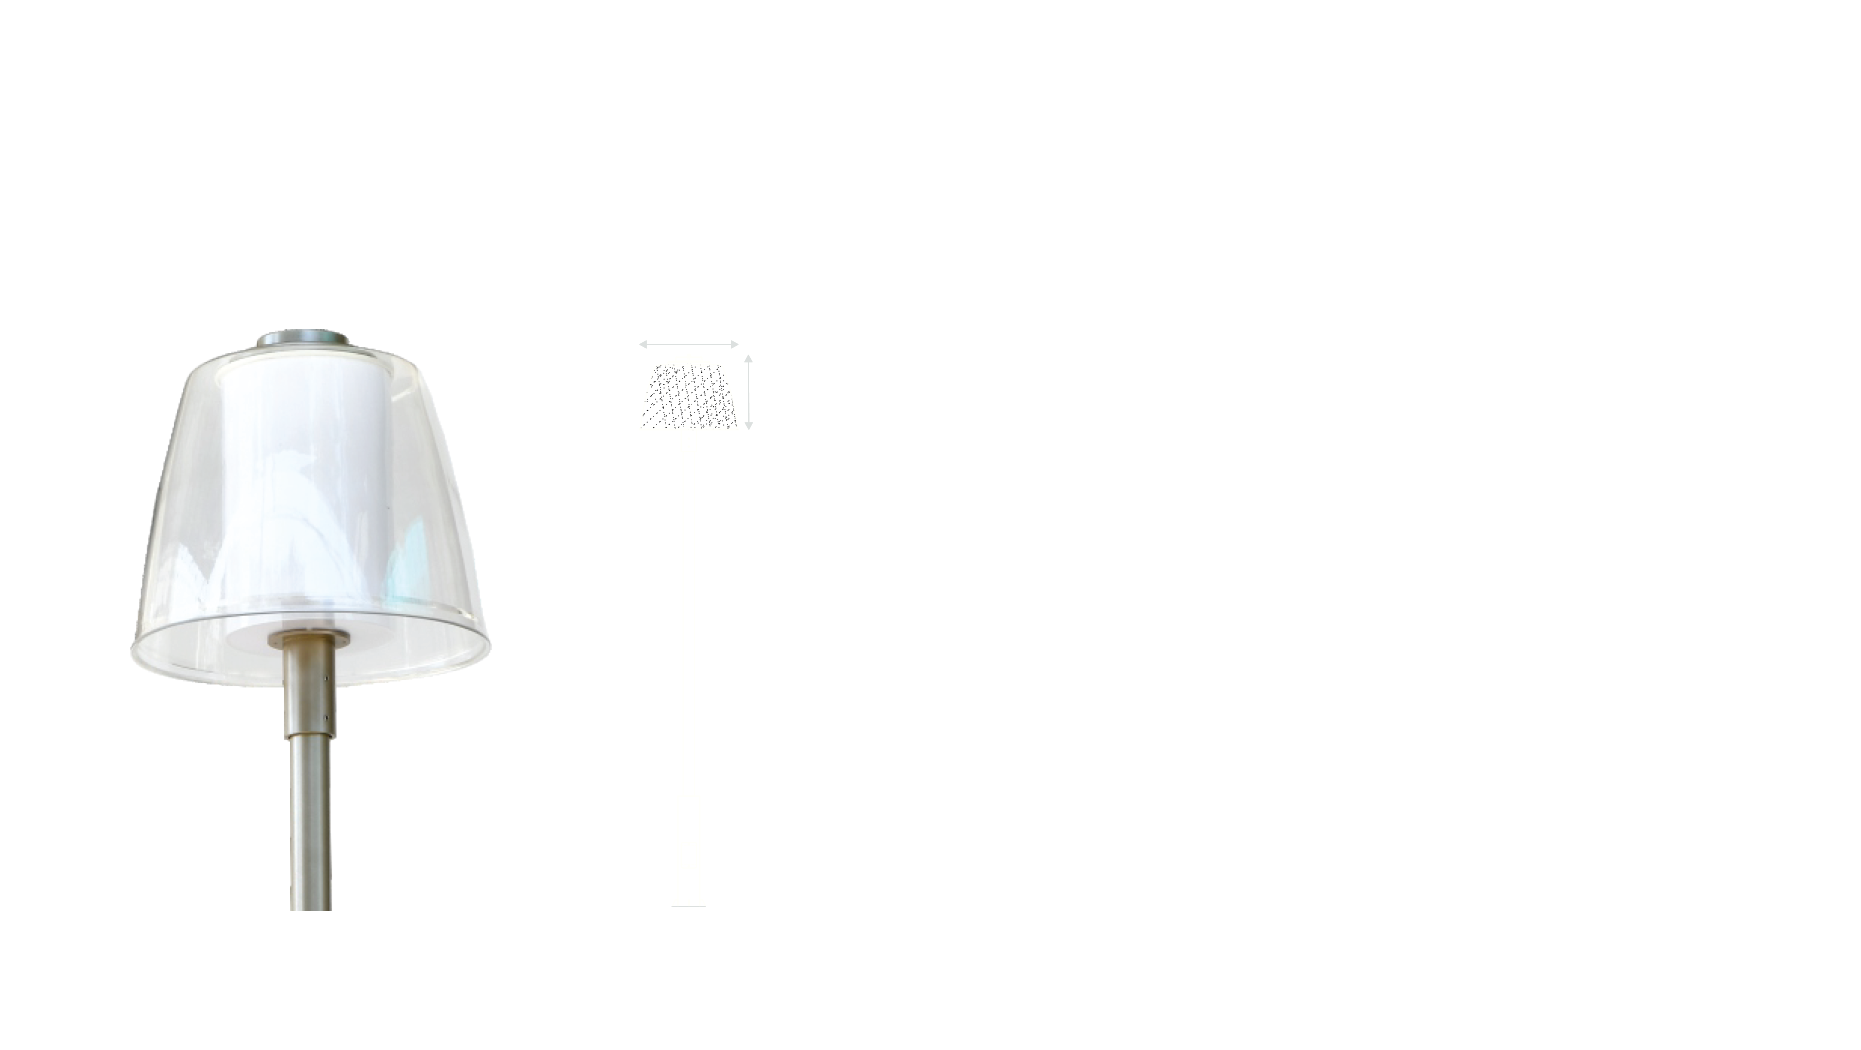
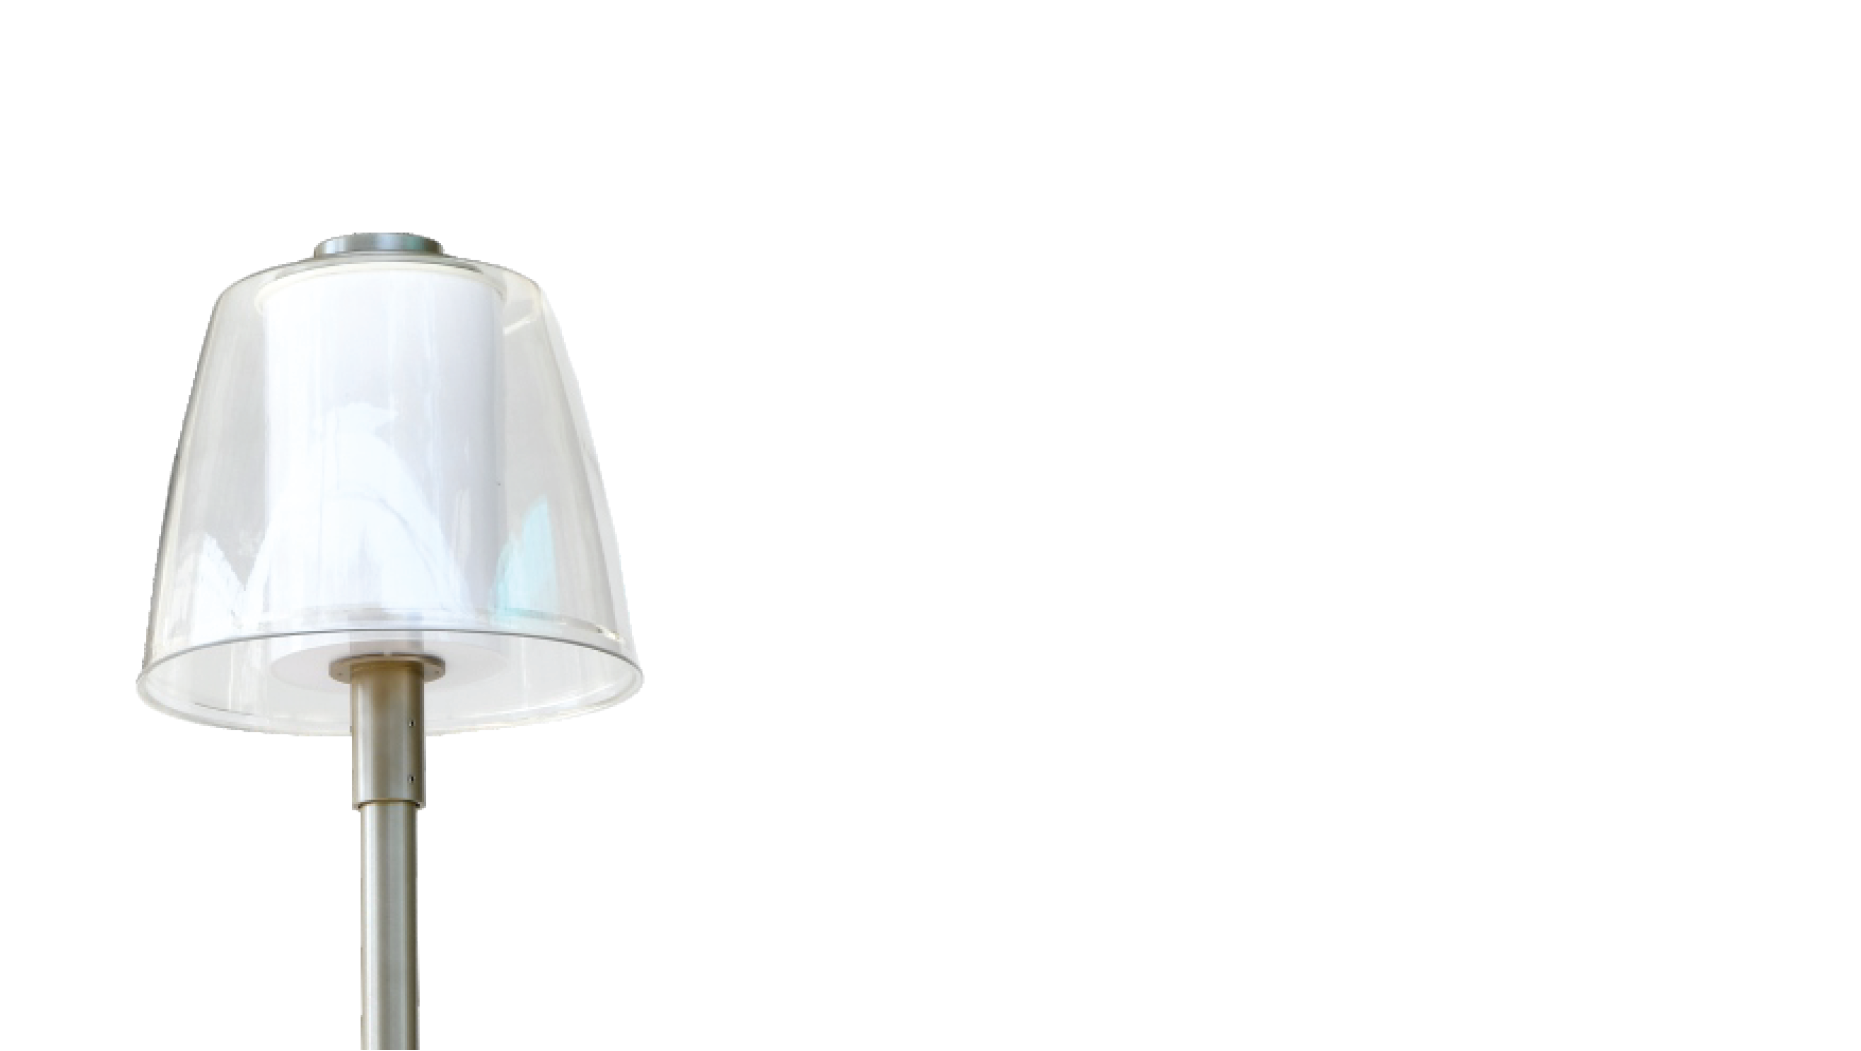
Add new product page for Lucia and update image references in Liza

Changed region(s): [[0.0623, 0.2133, 0.3428, 1.0], [0.3428, 0.3657, 0.4052, 0.3962]]

diff --git a/post-top.html b/post-top.html
@@ -138,7 +138,7 @@
                             <p>A stylish and energy-efficient post-top luminaire designed for outdoor spaces. It provides...</p>
                         </div>
                     </div>
-                    <div class="swiper-slide product-card">
+                    <div class="swiper-slide product-card" onclick="window.location.href='./post-top/lucia.html'">
                         <div class="card-img">
                             <img src="assets/images/product-slider/post-top/LUCIA.png" alt="image">
                         </div>

diff --git a/post-top/liza.html b/post-top/liza.html
@@ -119,7 +119,7 @@
 
         <div class="toggle-imx-box">
             <img src="../assets/images/internal-products/post-top/liza-off.png" class="" id="light-off" alt="light-image">
-            <img src="../assets/images/internal-products/post-top/liza-off.png" class="hide" id="light-on" alt="light-image">
+            <img src="../assets/images/internal-products/post-top/liza-on.png" class="hide" id="light-on" alt="light-image">
         </div>
     </section> 
     <!-- Banner End -->
